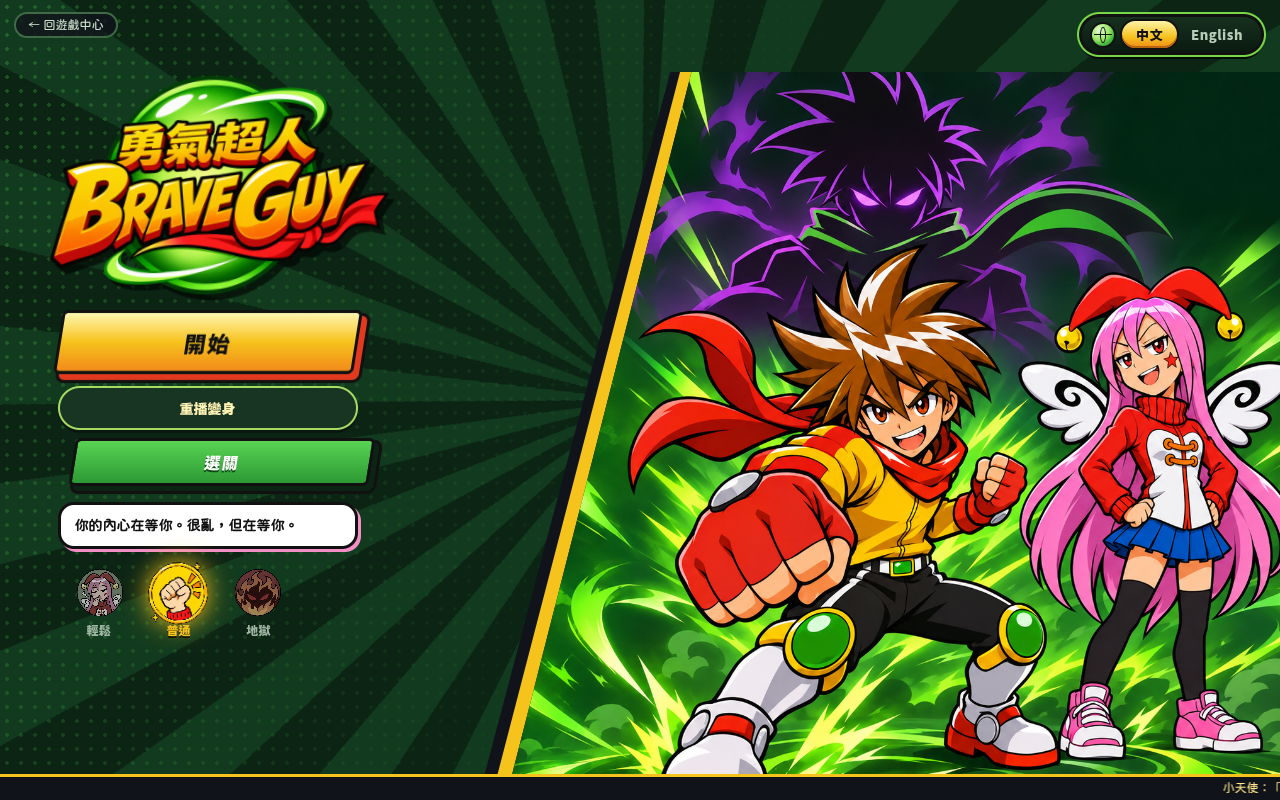
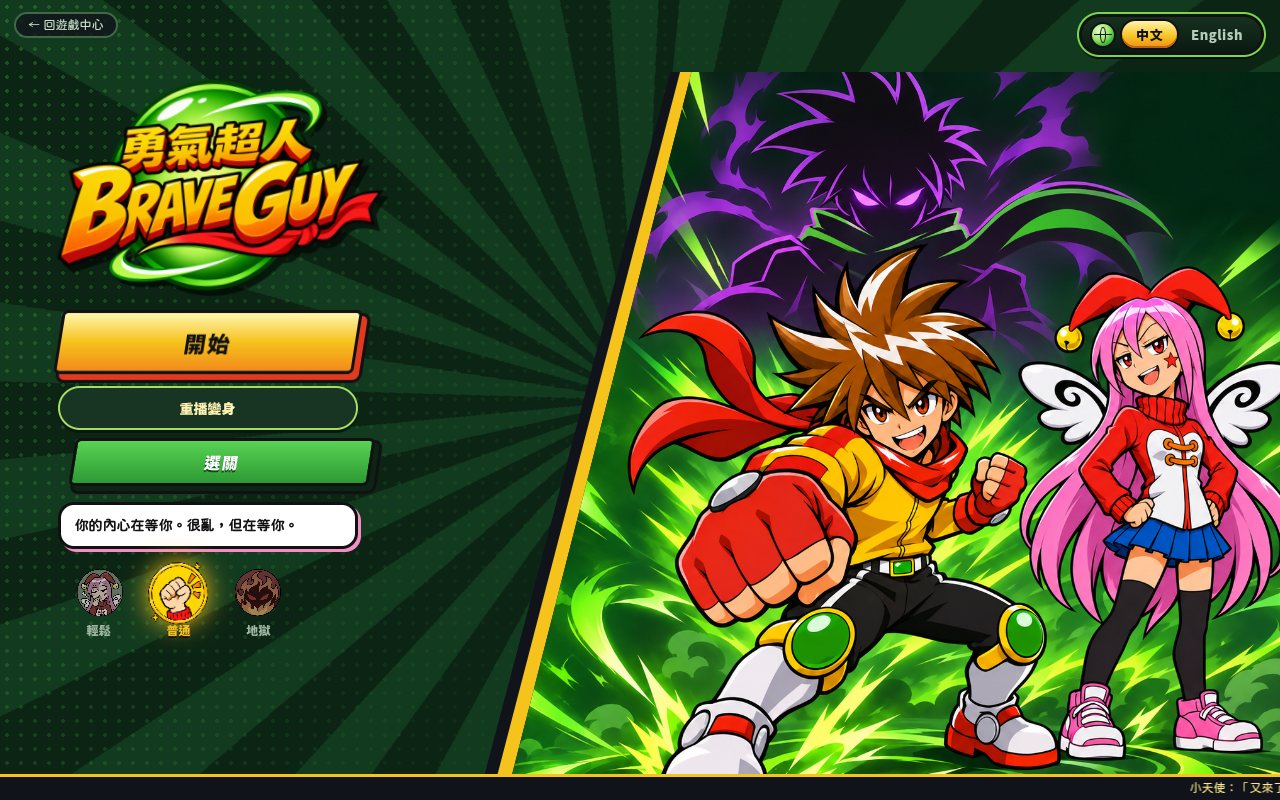
Keep menu ticker at viewport bottom while content scrolls

Changed region(s): [[0.0312, 0.0938, 0.3125, 0.375], [0.9375, 0.9688, 1.0, 1.0]]

diff --git a/02_brave_guy/index.html b/02_brave_guy/index.html
@@ -108,11 +108,11 @@
 </div>
 
 <div id="overlay" class="overlay">
+  <div id="menu-ticker"><span></span></div>
   <div class="card">
   <div id="menu-art" aria-hidden="true">
     <div class="rays"></div><div class="dots"></div>
     <div class="frame f1"></div><div class="frame f2"></div><div class="frame art"></div>
-    <div id="menu-ticker"><span></span></div>
   </div>
 
     <img id="ov-logo" class="logo" src="assets/runtime/pic/branding/logo_01.webp" width="768" height="512" alt="勇氣超人 Brave Guy">

diff --git a/02_brave_guy/css/menu-layout.css b/02_brave_guy/css/menu-layout.css
@@ -21,3 +21,5 @@
 }
 /* Artwork and controls share the scroll container, so scrolling cannot move text over a face. */
 .game-art .overlay.menu .card>#menu-art{z-index:-1;pointer-events:none}
+.game-art .overlay>#menu-ticker{z-index:2;pointer-events:none}
+.game-art .overlay:not(.menu)>#menu-ticker{display:none}

diff --git a/docs/handoffs/2026-11-15-game02-menu-angel-clear.md b/docs/handoffs/2026-11-15-game02-menu-angel-clear.md
@@ -3,7 +3,7 @@
 使用者截圖指出對話泡泡遮住天使頭臉。問題是泡泡以主視覺區絕對定位，語系與重播也疊在插畫上。
 
 - `index.html`：泡泡移到選單操作區；主視覺移入同一捲動容器。
-- `css/menu-layout.css`：語系/返回保留獨立72px頂部空間；泡泡、重播採一般排版，直向在插畫下方，橫向在左側操作欄。短螢幕可捲動，插畫與操作一起移動，文字不會因捲動滑過角色臉。選關及結算不顯示標題泡泡。
+- `css/menu-layout.css`：語系/返回保留獨立72px頂部空間；泡泡、重播採一般排版，直向在插畫下方，橫向在左側操作欄。短螢幕可捲動，插畫與操作一起移動，文字不會因捲動滑過角色臉。選關及結算不顯示標題泡泡；跑馬燈維持固定底部。
 - 本輪沒有生成或修改圖片，沿用既有主選單兩張主視覺。
 
 驗證：Chromium 390×844、320×568、844×390、1280×800，檢查頂部控制列與插畫分離、泡泡及重播一般排版、捲動到底後仍與角色區分離；實際點擊重播、跳過與選關通過，0 JS錯誤。已檢視橫直向截圖；非實機Safari驗證。
